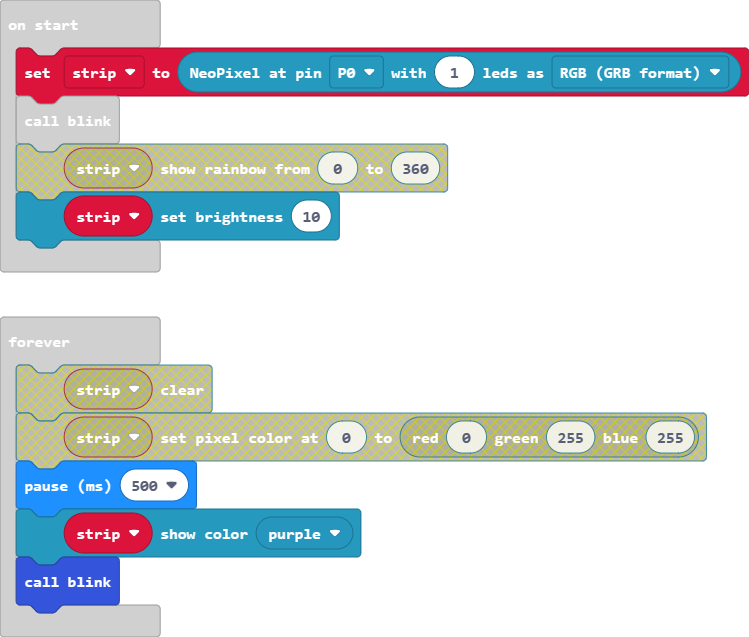
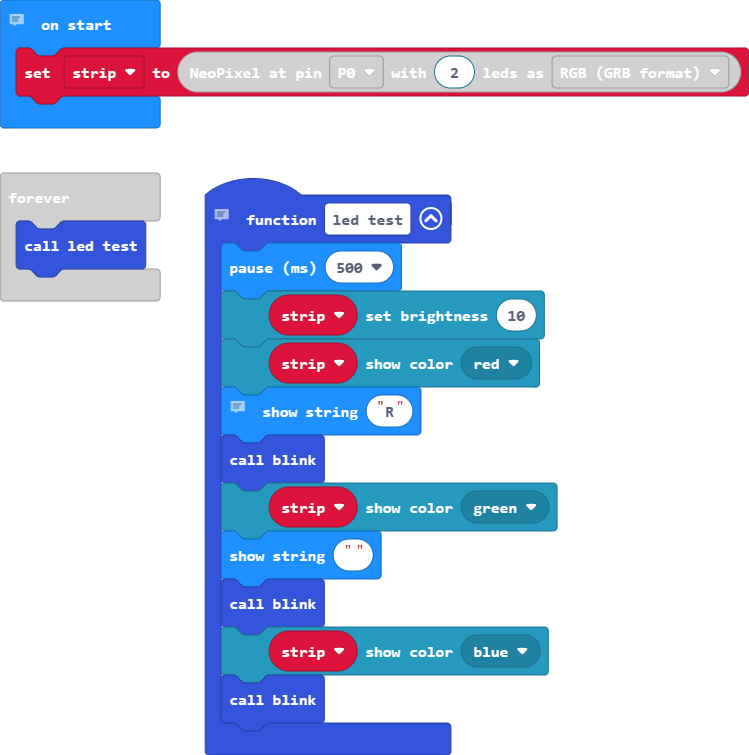
Update main.blocks, main.ts

diff --git a/main.ts b/main.ts
@@ -4,11 +4,23 @@ function blink () {
     basic.pause(500)
     pins.digitalWritePin(DigitalPin.P1, 0)
 }
-let strip = neopixel.create(DigitalPin.P0, 1, NeoPixelMode.RGB)
-blink()
-strip.setBrightness(10)
-basic.forever(function () {
+// Verify RGB pixels work.
+function led_test () {
     basic.pause(500)
-    strip.showColor(neopixel.colors(NeoPixelColors.Purple))
+    strip.setBrightness(10)
+    strip.showColor(neopixel.colors(NeoPixelColors.Red))
+    // track of red
+    basic.showString("R")
     blink()
+    strip.showColor(neopixel.colors(NeoPixelColors.Green))
+    basic.showString("")
+    blink()
+    strip.showColor(neopixel.colors(NeoPixelColors.Blue))
+    blink()
+}
+// Two adafruit Neo pixels in parallel
+let strip: neopixel.Strip = null
+strip = neopixel.create(DigitalPin.P0, 2, NeoPixelMode.RGB)
+basic.forever(function () {
+    led_test()
 })
